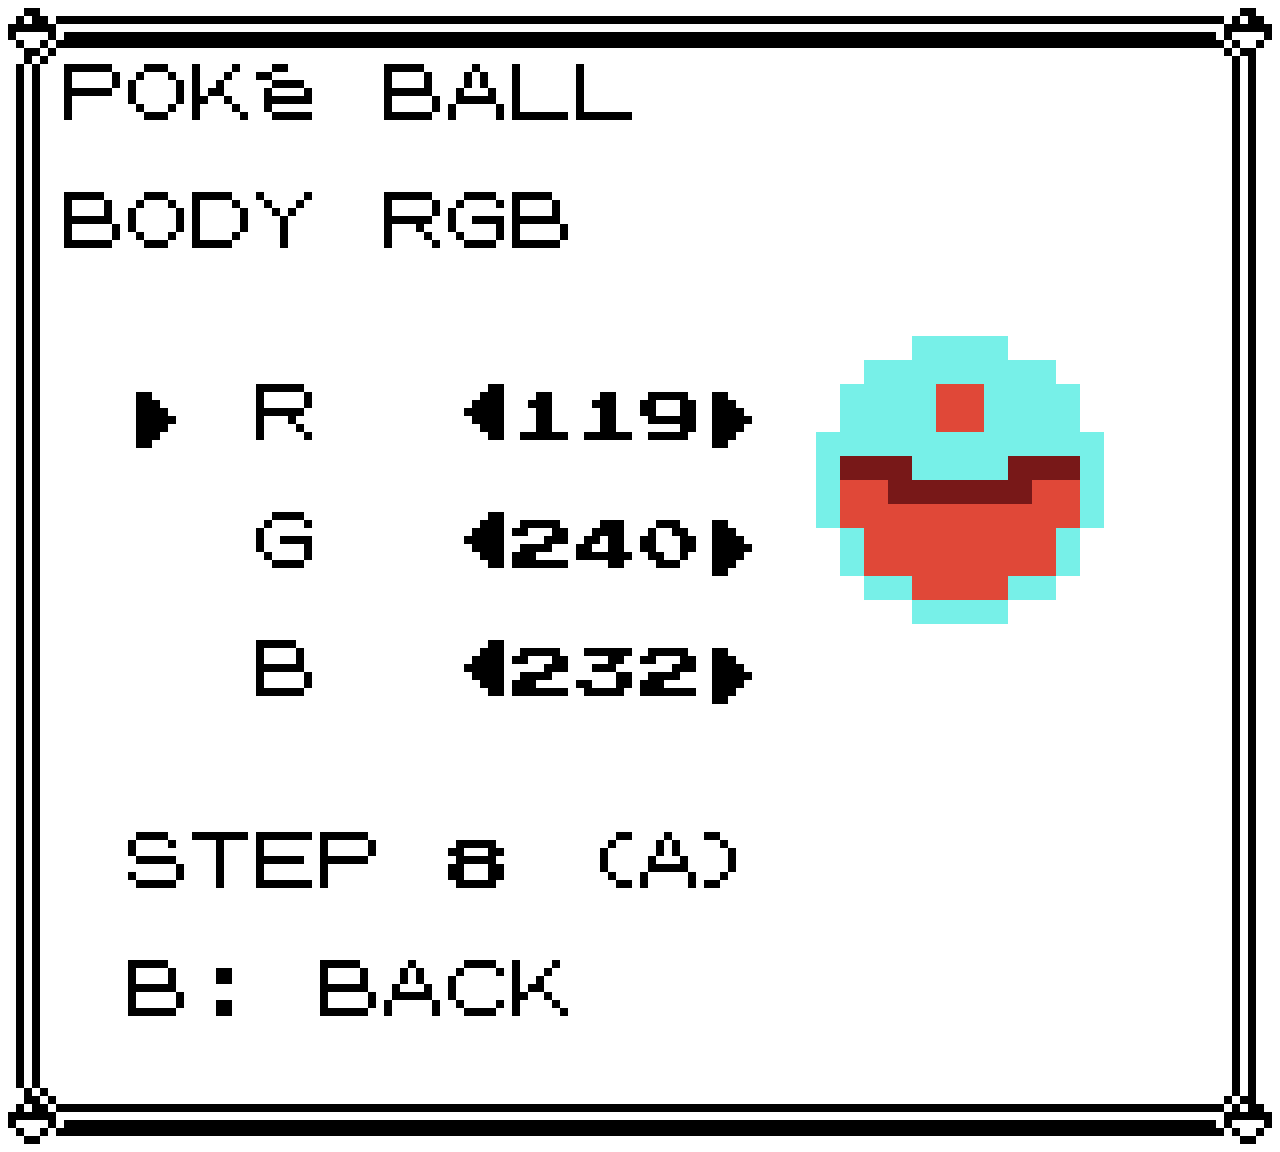
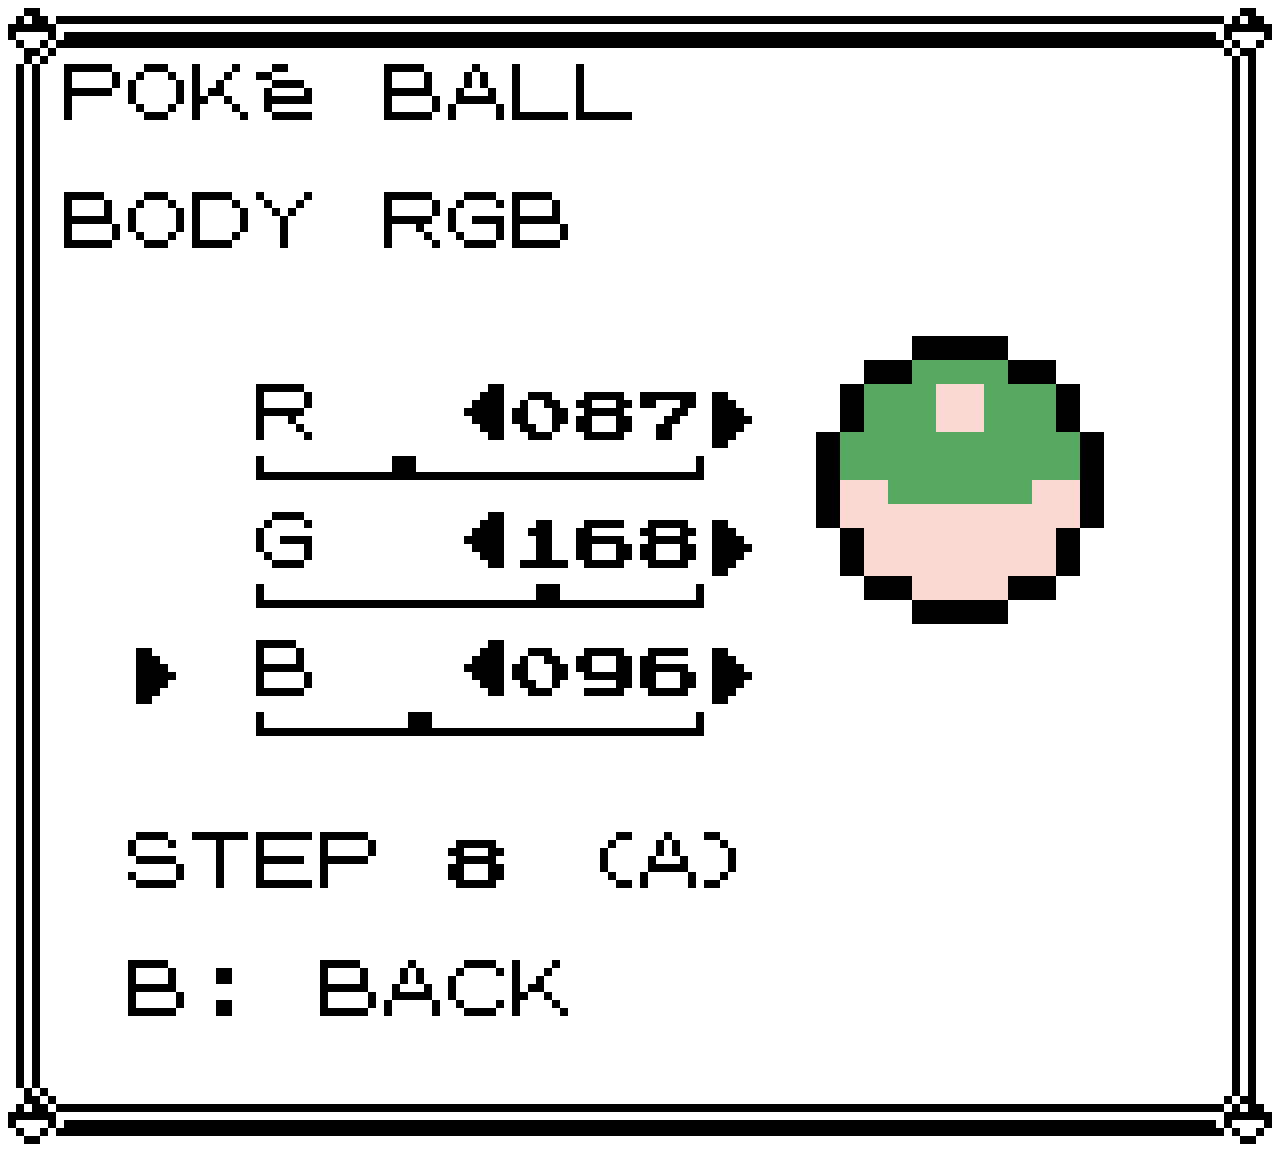
docs: Gen 2 editor screenshots and the new RGB screen
Eight more device shots from the developer, cropped the same way. The
RGB image is finally current (level rails, STEP). Gold shots show the
0.1.72 framed panels on device for the first time -- header, footer and
preview box all render -- plus a mod ball at ORIGINAL (Strange Ball,
Too Many Balls) and the list scrolled to 14/39 with the more-arrow.

README table gains two rows: Gen 1 / Gen 2 RGB side by side, and mod
balls appearing automatically. Not every shot is referenced; the rest
sit in docs/ for the release post.

diff --git a/README.md b/README.md
@@ -33,8 +33,10 @@ balls other mods have added, each with its three colours beside it.
 | Pick a preset built for that ball — the preview is the real sprite, in your colours. | Presets are tailored per ball, so a Poke Ball offers different looks from an Ultra Ball. |
 | ![The band style](docs/editor-style-band.png) | ![The outline style](docs/editor-style-outline.png) |
 | On Red, Blue and Yellow, **STYLE** puts the third colour on the seam band… | …or on the rim. Hand-edited colours read **CUSTOM**. |
-| ![Editing RGB](docs/editor-rgb.png) | |
-| Or set body, accent and third colour by hand, 0-255 on each channel. | |
+| ![Editing RGB](docs/editor-rgb.png) | ![Editing RGB on Gold](docs/gen2-editor-rgb.png) |
+| Or set body, accent and third colour by hand, 0-255 on each channel — the rail under each channel shows where it sits. | Gold, Silver and Crystal draw the same screens in the game's own framed panels, in whatever frame style you chose. |
+| ![A mod ball at its own colours](docs/gen2-editor-strange-original.png) | ![The list, deep in the mod balls](docs/gen2-list-mod-balls.png) |
+| Balls other mods add show up on their own. **ORIGINAL** is that mod's colour; presets sit beside it. | Thirty-nine balls with Too Many Balls installed — the counter and ▼ keep your place. |
 
 The editor keeps each game's own look: Red, Blue and Yellow retain the compact
 single-frame menu, while Gold, Silver and Crystal use native framed panels.
